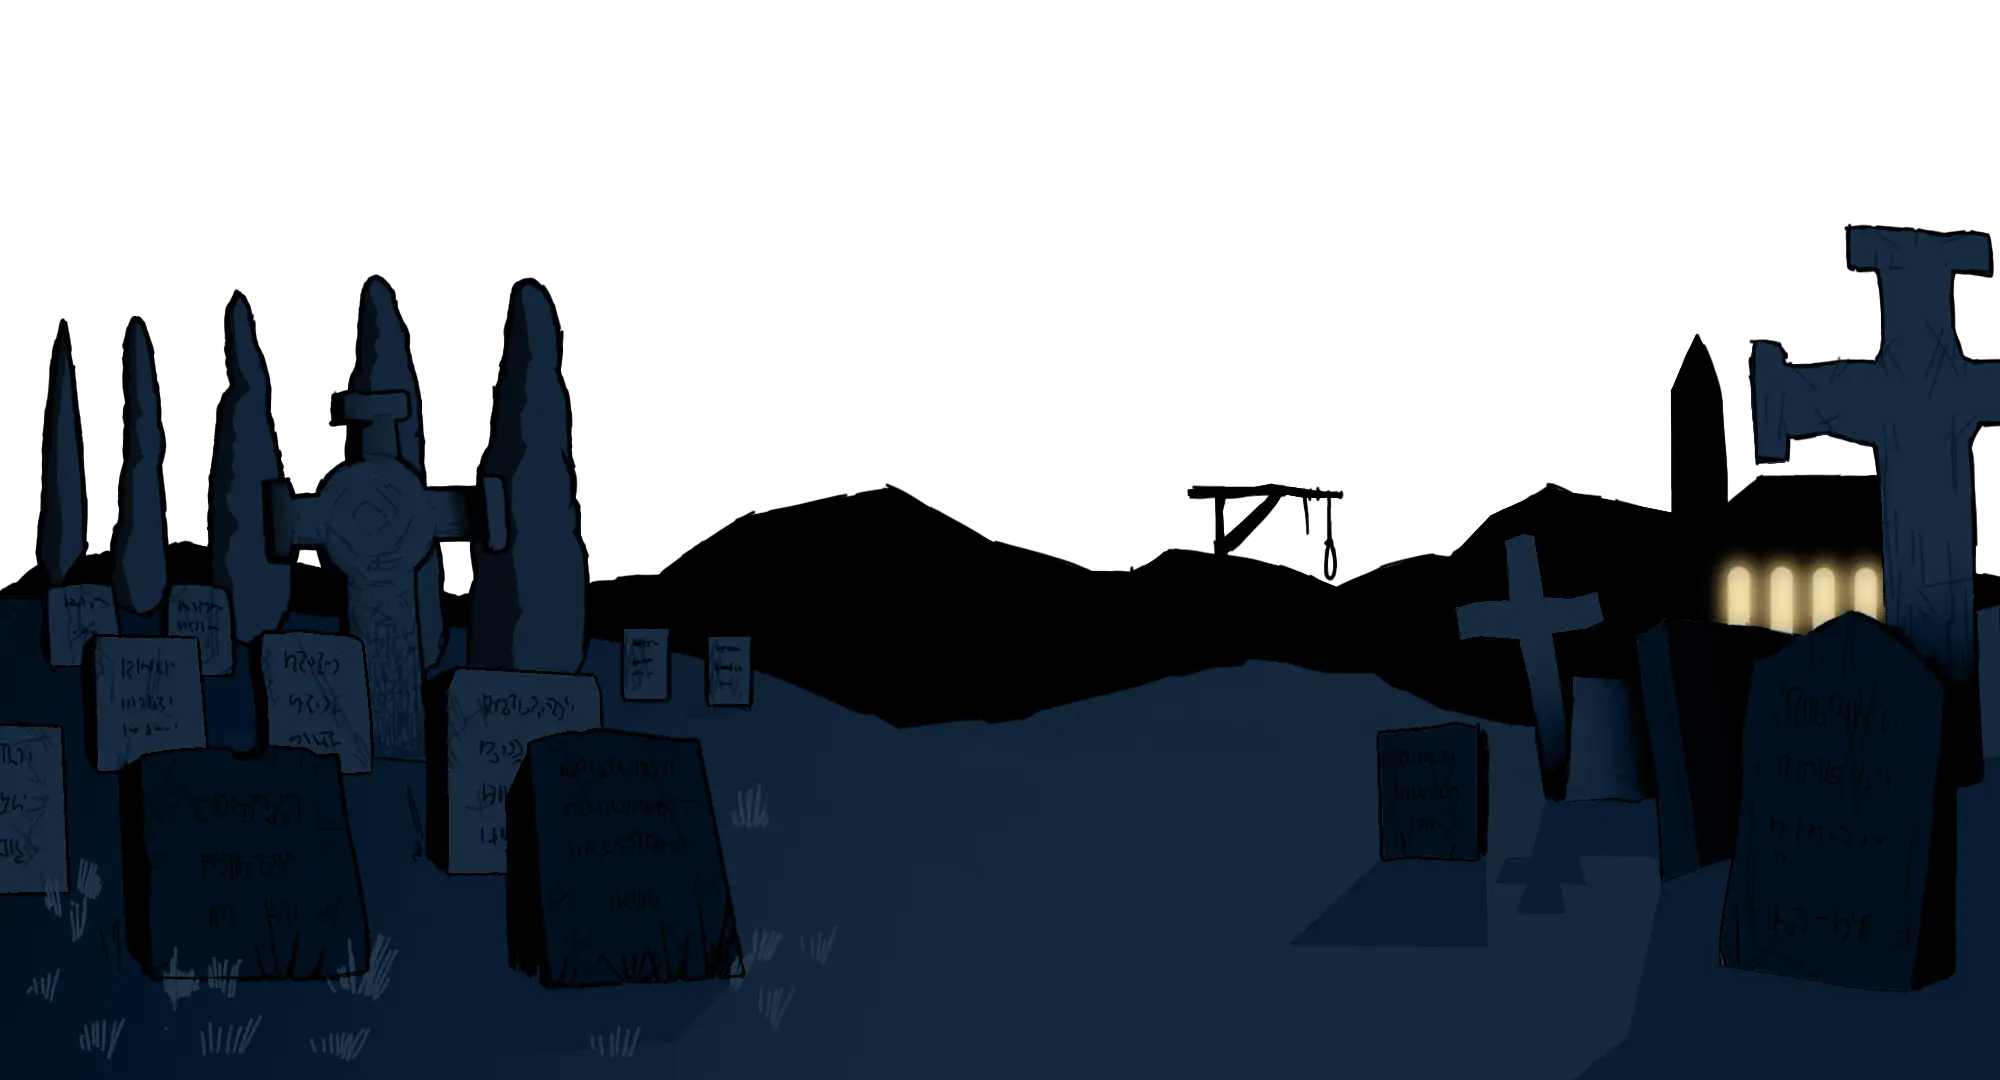
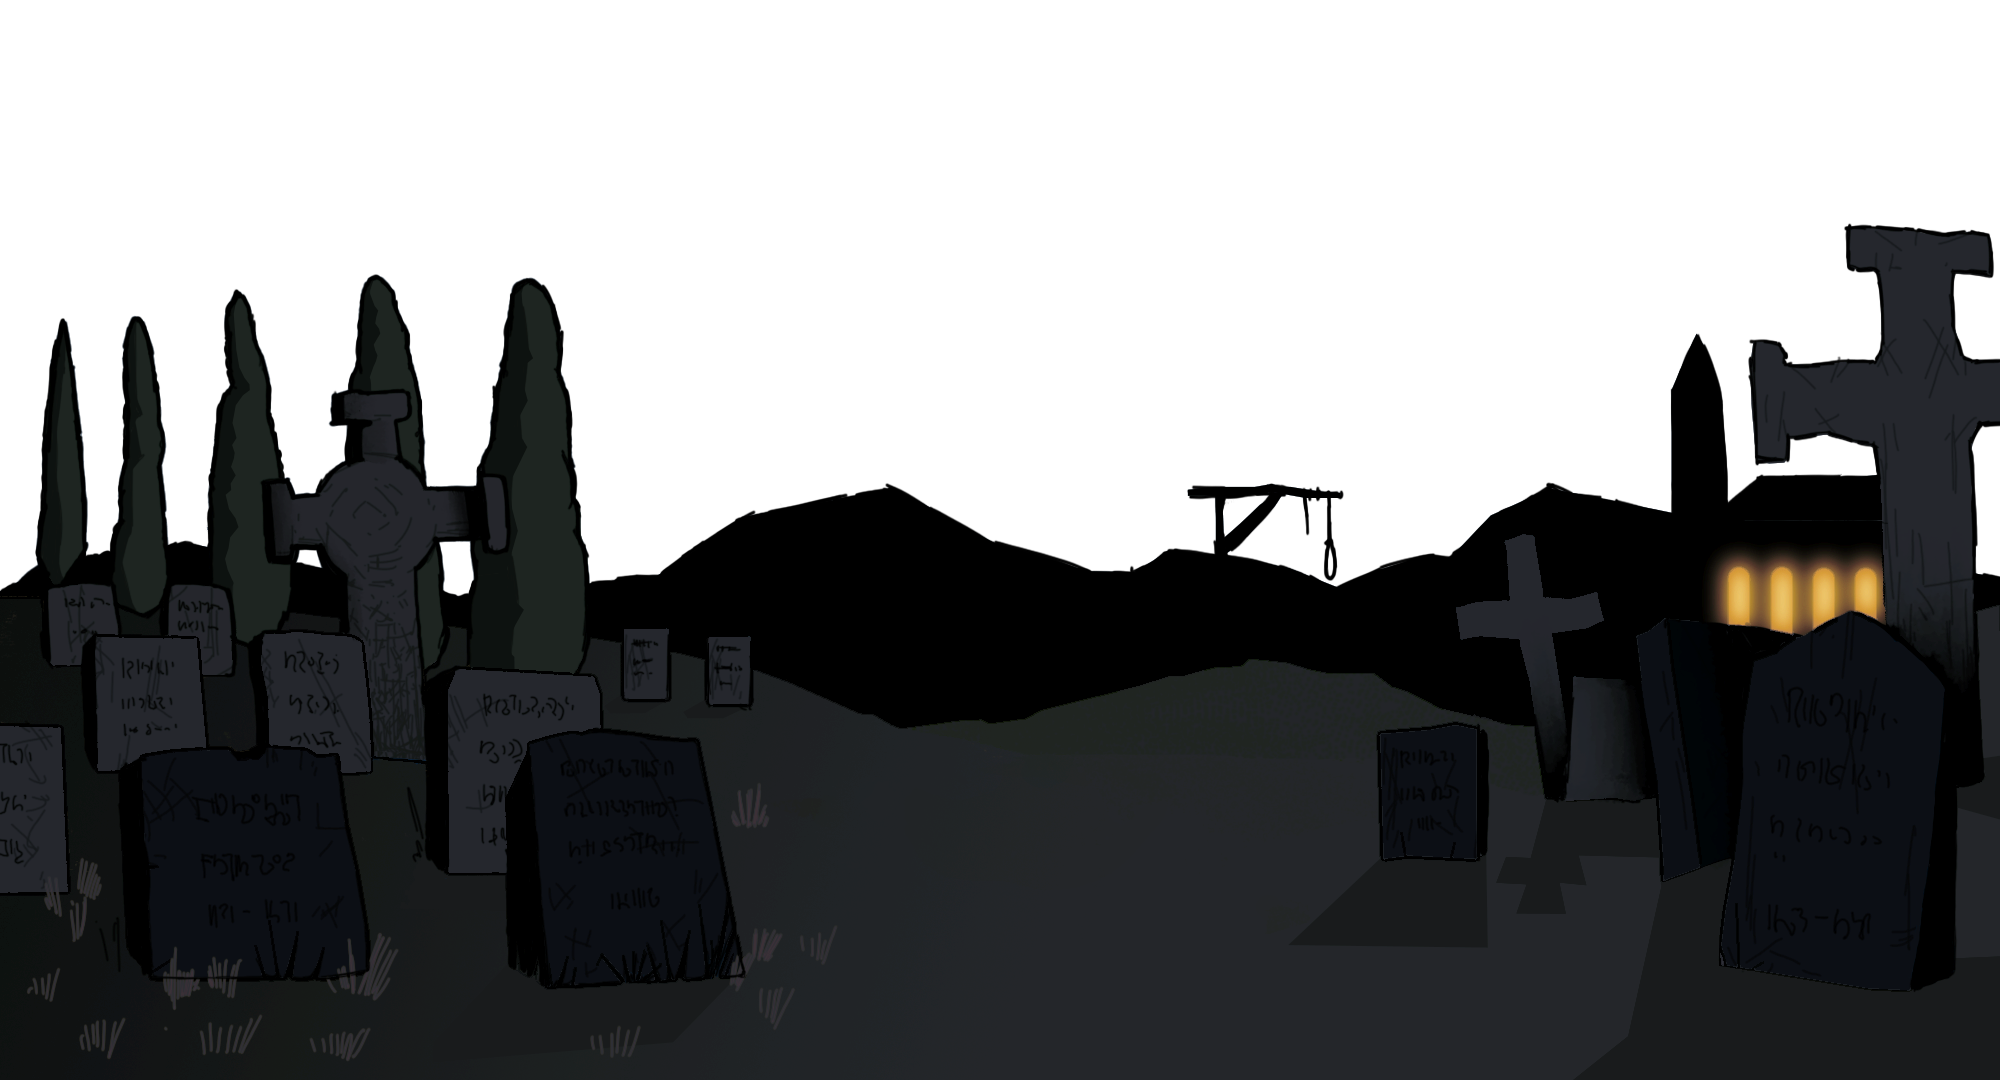
cleanup media

diff --git a/src/styles/index.scss b/src/styles/index.scss
@@ -86,7 +86,7 @@ p {
   }
   &-dark-image {
     background-color: $color-bg-dark;
-    background-image:  url('../../public/static/media/cemetery-dark2.webp'), url('../../public/static/media/bg-dark.webp') !important;
+    background-image:  url('../../public/static/media/cemetery-dark.webp'), url('../../public/static/media/bg-dark.webp') !important;
     background-repeat: no-repeat, repeat;
     background-size: 100% auto;
     background-position: bottom, top;
